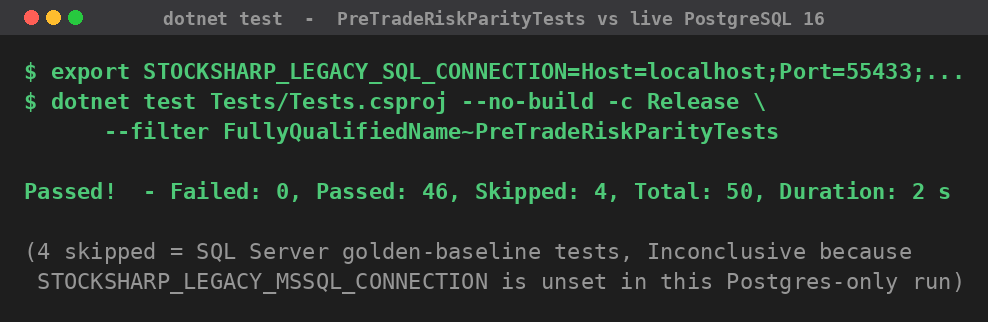
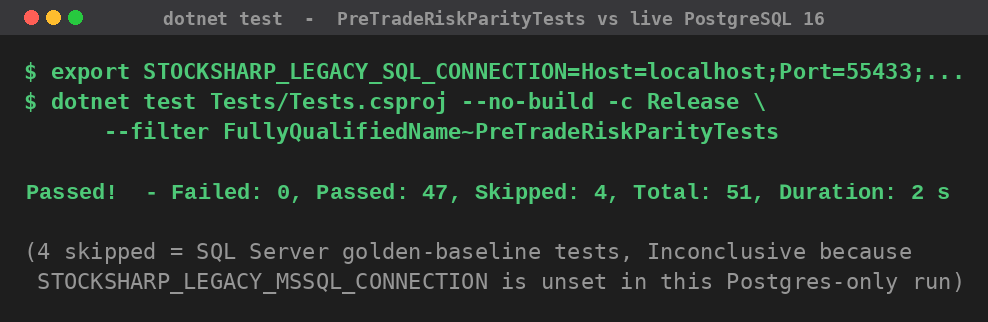
QA: sync PreTradeRiskParityTests evidence to current HEAD (47/4/51) + add local-dev credentials caveat
Resolves the current-HEAD QA report (dest) findings against QA/recordings/02_demo_scenarios.md:

Issue 1 (MAJOR): PreTradeRiskParityTests evidence was frozen at an earlier
revision (46 passed / 50 total) while a PostgreSQL-gated clock-skew regression
test raised the [TestMethod] count to 51. Corrected every stale count to the
reproducible runtime result:
  - PG-only:      47 passed, 4 skipped, 51 total
  - dual-engine:  51 passed, 0 skipped
Updated QA/recordings/03_parity_tests.md (summary table, heading, verbatim
'dotnet test' line, prose) and QA/README.md (overview, dual-engine note,
screenshot-05 row, recordings row). Regenerated
QA/screenshots/05_pretraderisk_parity_tests_pass.png so the captured summary
reads 'Passed: 47, Skipped: 4, Total: 51' (surgical redraw of the summary band
only; rest of the image byte-identical). PositionRecalculationTests counts
(25/3/28 and 28) were already correct and are left unchanged.

Issue 2 (INFO): added an explicit 'local-dev credentials only' caveat to
QA/README.md covering the postgres/postgres and sa/DevTest_Passw0rd! pairs,
clarifying they are disposable local values that must never be reused for
shared/staging/production.

Counts verified against live PostgreSQL 16: PreTradeRisk 47/4/51 (PG-only),
PositionRecalc 25/3/28; and the three demo scenarios (accept / reject-by-price
/ automatic position update) reproduced with the demo exiting 0.

diff --git a/QA/README.md b/QA/README.md
@@ -66,7 +66,7 @@ The artifacts below collectively demonstrate three things, all from the one run.
   those three scripts running and `README.md` being ignored, and whose post-demo
   catalog shows the seven pure-storage tables.
 - **C. Staged-testing / behavioral parity** — the `Tests/` parity suites
-  **`PreTradeRiskParityTests`** (46 passed, 4 skipped) and
+  **`PreTradeRiskParityTests`** (47 passed, 4 skipped) and
   **`PositionRecalculationTests`** (25 passed, 3 skipped) pass against the same live
   database, proving the consolidated C# logic matches the original behavior. That
   includes the rolling-frequency **threshold-strictness invariant** (the reconciled
@@ -186,7 +186,7 @@ both engines must be configured and reachable, and the SQL Server target must be
    ```
 
    With both variables set and both databases reachable, the staged tests report
-   **zero skips** (`PreTradeRiskParityTests` → 50 passed, `PositionRecalculationTests`
+   **zero skips** (`PreTradeRiskParityTests` → 51 passed, `PositionRecalculationTests`
    → 28 passed). With neither set, every database-integration test is Inconclusive
    (skipped) and only the pure-logic tests run — a missing engine never looks like a
    failure. Tear the throwaway SQL Server down when finished:
@@ -257,6 +257,14 @@ separate application role and no init script beyond the three frozen by the AAP.
 `GSS Encryption Mode=Disable` stops Npgsql probing for a Kerberos library that this
 local, password-authenticated stack does not use.
 
+> **Local-dev credentials only.** Every credential in this document and in the
+> reproduction commands below — the PostgreSQL `postgres` / `postgres` pair and the
+> throwaway SQL Server `sa` / `DevTest_Passw0rd!` used for the optional dual-engine
+> run — is a disposable local-development value that matches the committed
+> `docker-compose.yml` and the setup instructions. None of these are real secrets;
+> they are intended for local, throwaway containers only and must **never** be
+> reused for any shared, staging, or production database.
+
 The seeded risk limits that drive the demo outcomes are fixed by
 `Database/004_SeedData.sql` and must not change: `max_order_price=500.00`,
 `max_order_qty=10000`, `max_order_value=1000000.00`, `max_position_size=100000`,
@@ -279,7 +287,7 @@ environment; none is printed).
 | `screenshots/02_order_accepted.png` | Demo scenario 1 — `BUY 100 @ 150.00` accepted: `is_valid=True`, `reject_reason=(none)` | `QA/recordings/02_demo_scenarios.md` |
 | `screenshots/03_order_rejected_by_price.png` | Demo scenario 2 — `BUY 10 @ 999.00` rejected: `is_valid=False`, reason `Order price 999.00 meets/exceeds limit 500.0000`, from the `PreTradeRiskService` gate | `QA/recordings/02_demo_scenarios.md` |
 | `screenshots/04_position_auto_updated.png` | Demo scenario 3 — after `RecordTradeAsync`, the position auto-updates to `qty=100.0000 avg_price=150.0000 realized_pnl=0.0000` via `PositionRecalculationService` (no trigger) | `QA/recordings/02_demo_scenarios.md` |
-| `screenshots/05_pretraderisk_parity_tests_pass.png` | `PreTradeRiskParityTests` — **46 passed, 0 failed, 4 skipped** against live PostgreSQL (the 4 skips are the SQL-Server golden-baseline tests) | `QA/recordings/03_parity_tests.md` |
+| `screenshots/05_pretraderisk_parity_tests_pass.png` | `PreTradeRiskParityTests` — **47 passed, 0 failed, 4 skipped** against live PostgreSQL (the 4 skips are the SQL-Server golden-baseline tests) | `QA/recordings/03_parity_tests.md` |
 | `screenshots/06_position_recalc_tests_pass.png` | `PositionRecalculationTests` — **25 passed, 0 failed, 3 skipped** against live PostgreSQL (the 3 skips are the SQL-Server golden-baseline stages) | `QA/recordings/03_parity_tests.md` |
 
 ## Recordings — timestamped transcripts (evidence of record)
@@ -292,7 +300,7 @@ authentic run — these transcripts are the evidence of record.
 |---|---|---|
 | `recordings/01_end_to_end.md` | Full end-to-end flow of the one run: `docker compose up --build` → image built (with the OS patch) → healthy PostgreSQL → the demo runs the three scenarios and exits 0 → post-demo catalog (7 tables, position updated) | Timestamped transcript (verbatim build / db-init / app / catalog captures) |
 | `recordings/02_demo_scenarios.md` | Focused walkthrough of the three demo outcomes (accept / reject-by-price / automatic position update) | Timestamped transcript (verbatim `app`-service output) |
-| `recordings/03_parity_tests.md` | The two `dotnet test` parity suites against the same database (46 passed/4 skipped and 25 passed/3 skipped, with the skips explained) | Timestamped transcript (verbatim `dotnet test` summaries) |
+| `recordings/03_parity_tests.md` | The two `dotnet test` parity suites against the same database (47 passed/4 skipped and 25 passed/3 skipped, with the skips explained) | Timestamped transcript (verbatim `dotnet test` summaries) |
 
 **Substitution policy.** Genuine screen-capture video is not feasible for this
 workload — it is a headless .NET console app plus a PostgreSQL container, with no

diff --git a/QA/recordings/03_parity_tests.md b/QA/recordings/03_parity_tests.md
@@ -37,10 +37,10 @@ provision a disposable SQL Server and set both variables as described in
 
 | When (UTC) | Suite | Result |
 |------------|-------|--------|
-| 07:41:49Z | PreTradeRiskParityTests | **Passed 46 / Failed 0 / Skipped 4**, exit 0 |
+| 07:41:49Z | PreTradeRiskParityTests | **Passed 47 / Failed 0 / Skipped 4**, exit 0 |
 | 07:42:09Z | PositionRecalculationTests | **Passed 25 / Failed 0 / Skipped 3**, exit 0 |
 
-## PreTradeRiskParityTests — 46 passed, 0 failed, 4 skipped
+## PreTradeRiskParityTests — 47 passed, 0 failed, 4 skipped
 
 Command (host-side, against the same Compose `db` on the remapped port 55433):
 
@@ -52,12 +52,12 @@ dotnet test Tests/Tests.csproj --no-build -c Release --filter "FullyQualifiedNam
 Verbatim summary line:
 
 ```
-Passed!  - Failed:     0, Passed:    46, Skipped:     4, Total:    50, Duration: 2 s - StockSharp.Tests.dll (net10.0)
+Passed!  - Failed:     0, Passed:    47, Skipped:     4, Total:    51, Duration: 2 s - StockSharp.Tests.dll (net10.0)
 ```
 
 The 4 skipped are the SQL-Server golden-baseline checks (`Step1`, `Step2`, the two
 `Step4` attribution-matrix cases) — Inconclusive because no SQL Server is
-configured in this PostgreSQL-only capture. The 46 passed include the seven
+configured in this PostgreSQL-only capture. The 47 passed include the seven
 pre-trade checks' PostgreSQL parity plus the adversarial/structural gate
 regressions added in this change (malformed input, fail-closed negative limits,
 clock-skew via DB transaction time).